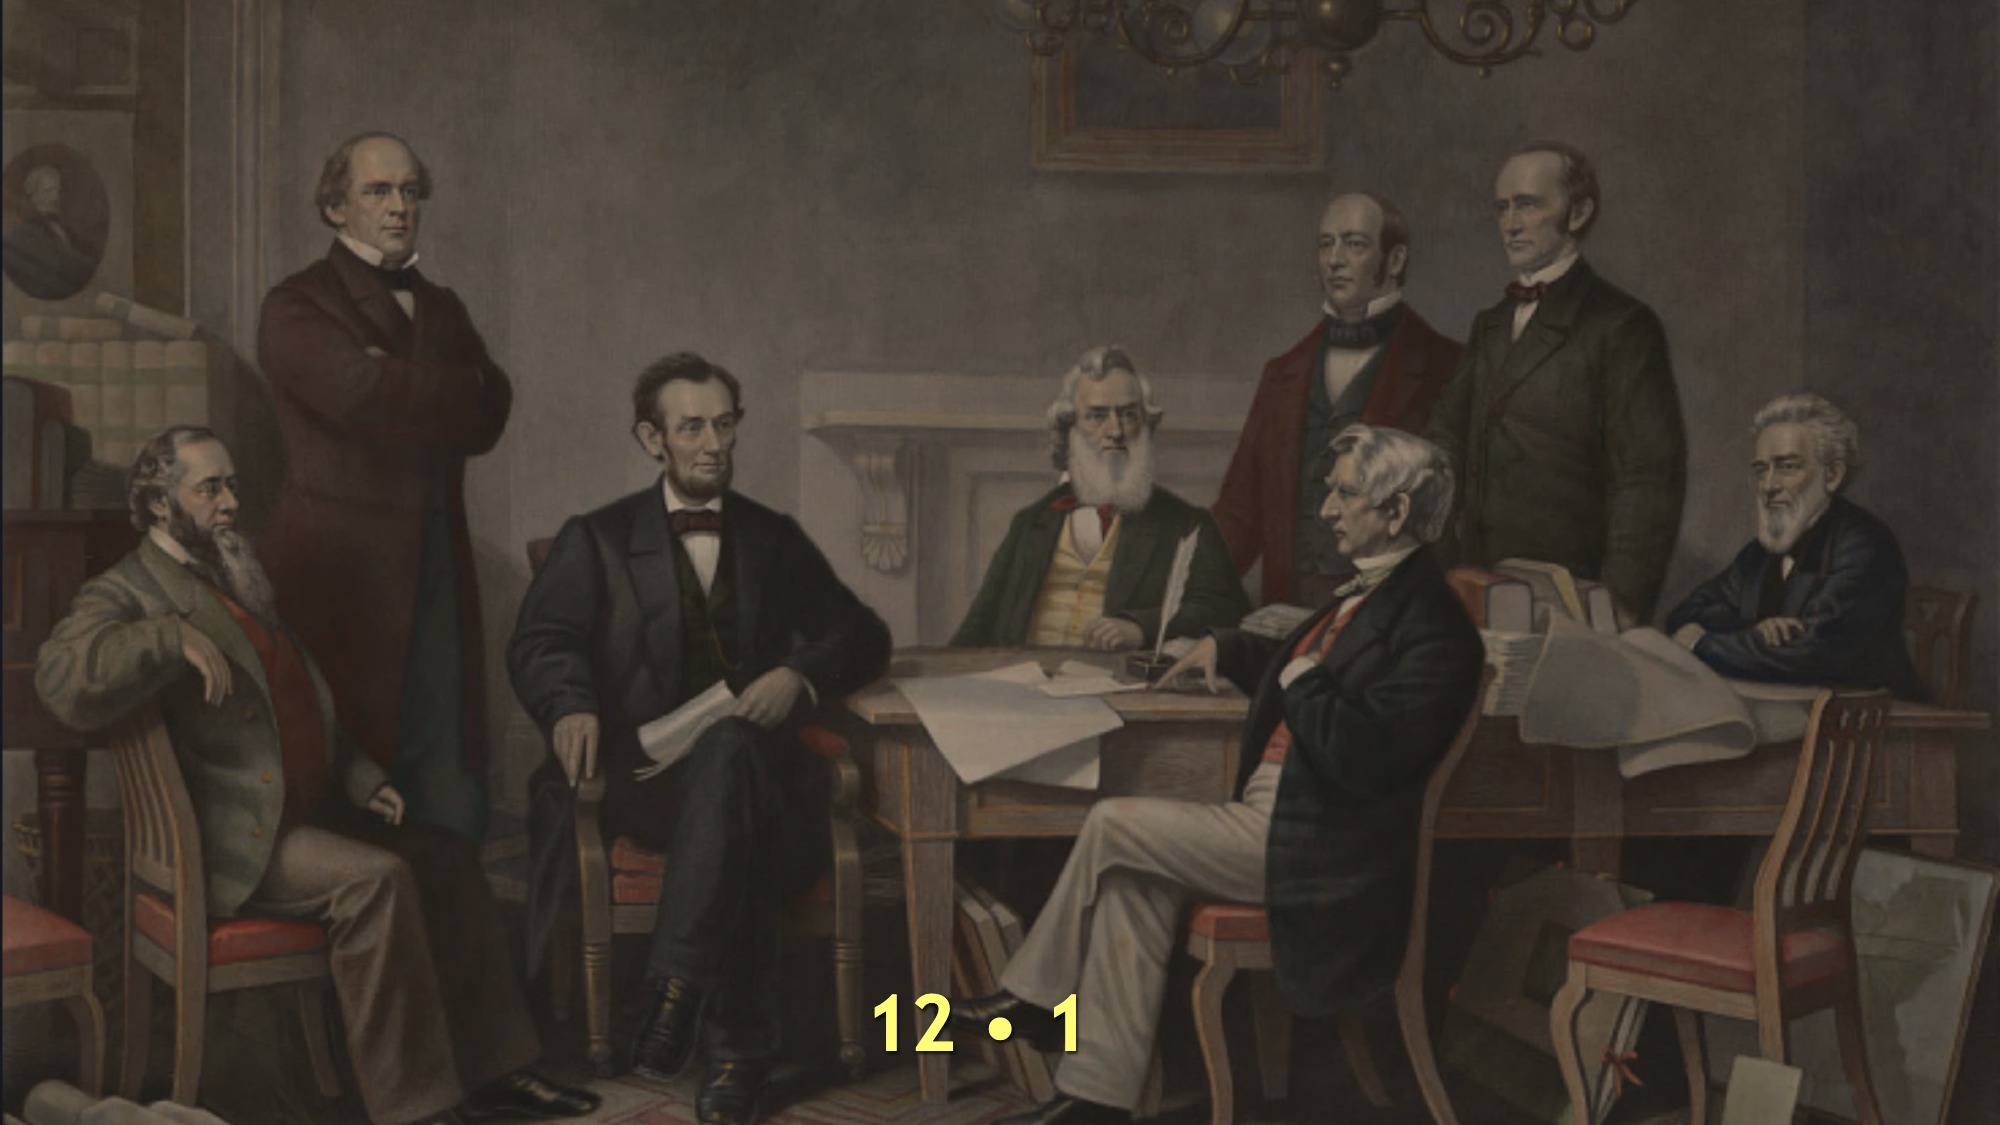
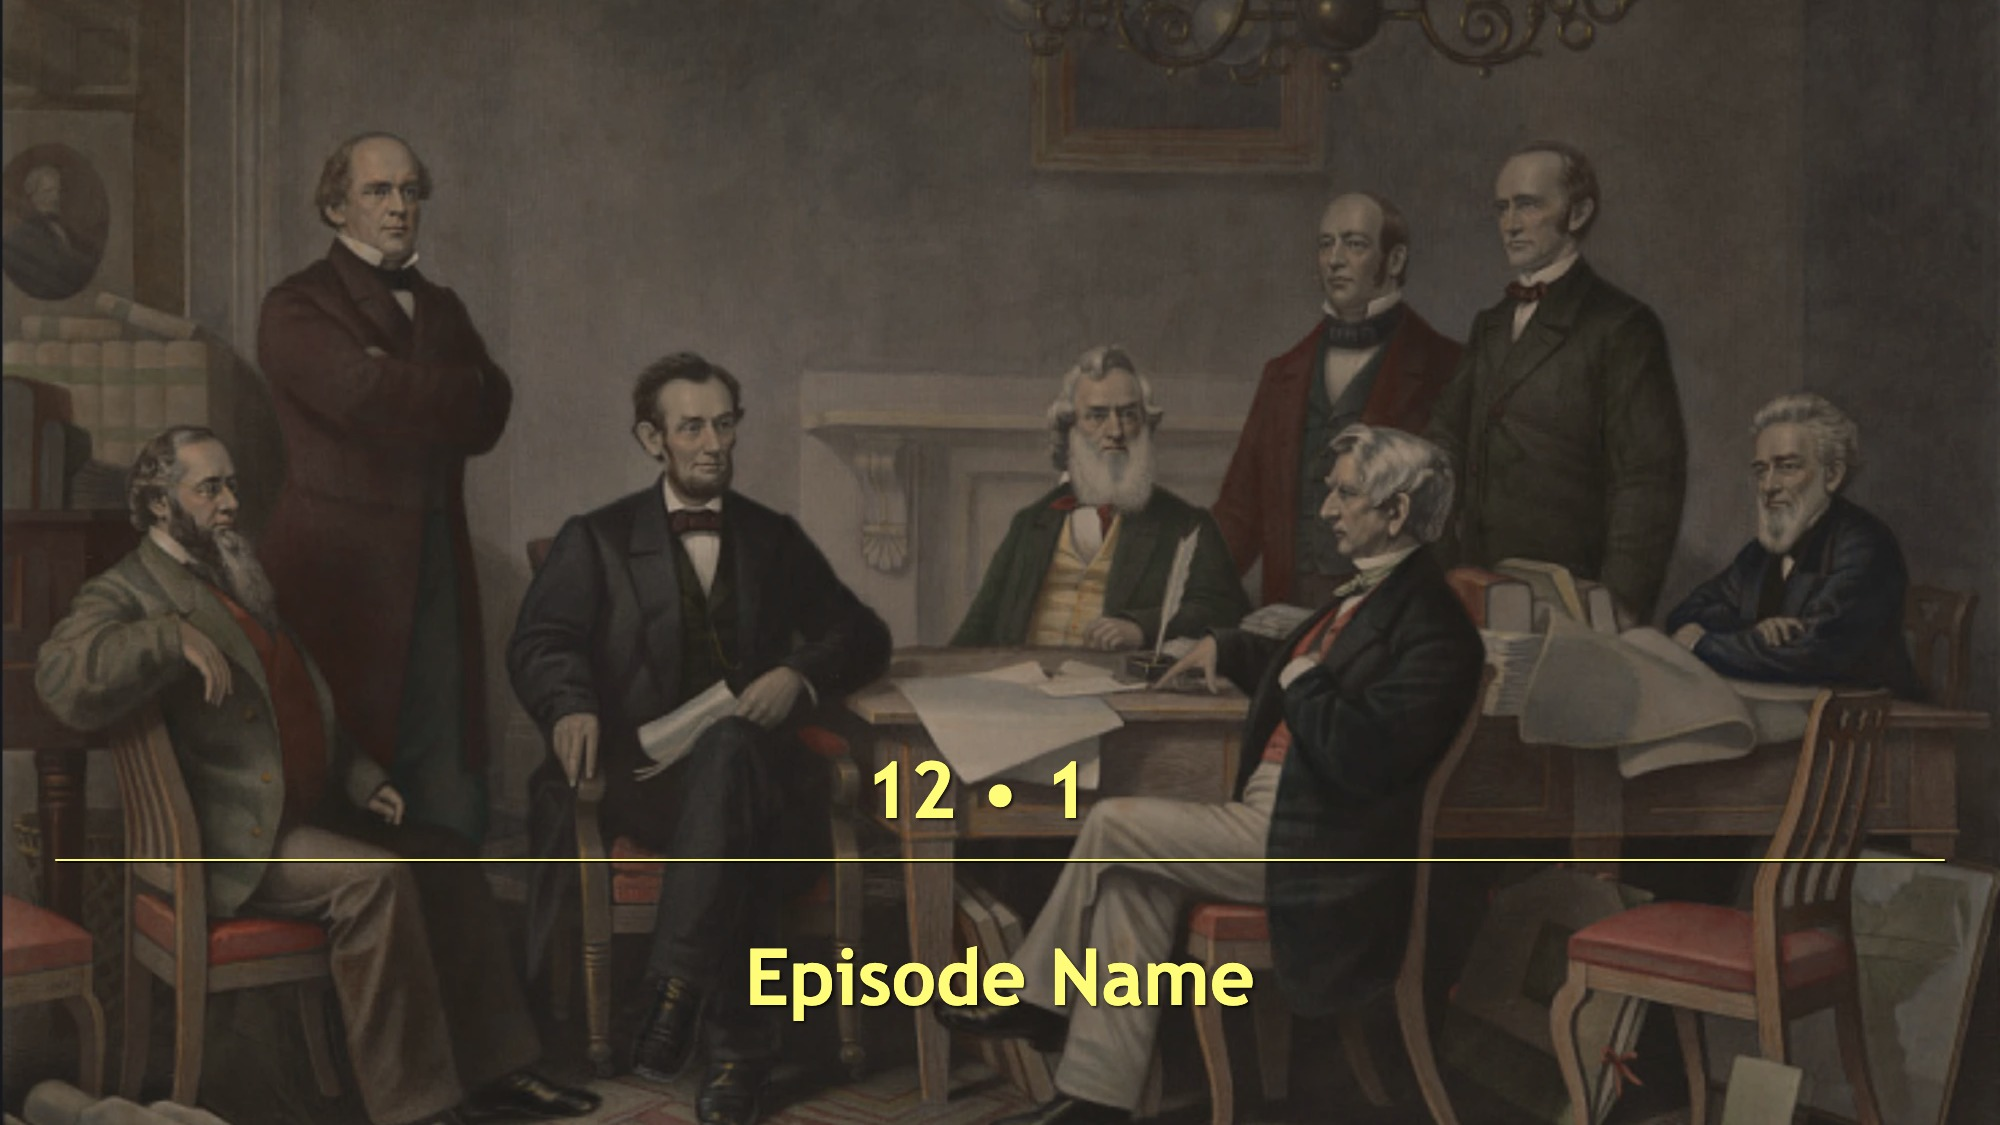
Let the Frame style choose which edge holds the title, and give the Simple design a title so a series is not left blank.

Changed region(s): [[0.031, 0.6533, 0.837, 0.7778], [0.372, 0.84, 0.651, 0.9333], [0.868, 0.7467, 0.961, 0.7778]]

diff --git a/Jellyfin.Plugin.EpisodePosterGenerator/Configuration/epg_posters.html b/Jellyfin.Plugin.EpisodePosterGenerator/Configuration/epg_posters.html
@@ -112,6 +112,18 @@
                                 <div id="posterStyleDescription" class="fieldDescription"></div>
                             </div>
 
+                            <div class="cutout-logo-group" id="frameOptions">
+                                <div class="inputContainer">
+                                    <label for="selectTitleEdge">Title Edge:</label>
+                                    <select is="emby-select" id="selectTitleEdge" data-setting="TitleEdge" data-default="Automatic">
+                                        <option value="Automatic">Automatic</option>
+                                        <option value="Top">Top</option>
+                                        <option value="Bottom">Bottom</option>
+                                    </select>
+                                    <div class="fieldDescription">Which edge of the border holds the title, the subtitle taking the other. Automatic keeps the title at the top while there is a subtitle to hold the bottom, and moves it down when there is none, such as on a series poster.</div>
+                                </div>
+                            </div>
+
                             <div class="cutout-logo-group" id="outlineOptions">
                                 <div class="checkboxContainer">
                                     <label class="emby-checkbox-label">

diff --git a/Jellyfin.Plugin.EpisodePosterGenerator/Services/Posters/Types/Frame.cs b/Jellyfin.Plugin.EpisodePosterGenerator/Services/Posters/Types/Frame.cs
@@ -18,9 +18,11 @@ namespace Jellyfin.Plugin.EpisodePosterGenerator.Services.Posters
         // A short, user facing description of this style shown in the configuration UI.
         public override string Description => "Image inside a decorative border. Polished gallery look.";
 
-        // The frame is drawn around the title, so the title is always there.
+        // The frame is drawn around the title, so the title is always there, and this style is the
+        // one that decides which edge holds it.
         public override IReadOnlyDictionary<string, PosterSettingState> SettingRules => PosterSettingRules.Build(
-            (PosterSettingRules.ShowTitle, PosterSettingState.Required));
+            (PosterSettingRules.ShowTitle, PosterSettingState.Required),
+            (PosterSettingRules.TitleEdge, PosterSettingState.Optional));
 
         // Border geometry at the 1080 pixel reference; scaled to the poster being drawn.
         private const float BorderStrokeReference = 4f;
@@ -40,9 +42,9 @@ namespace Jellyfin.Plugin.EpisodePosterGenerator.Services.Posters
         }
 
         // RenderTypography
-        // Renders the title and the label set into the frame's edges, and the border itself, which
-        // closes over any edge with no text in it. The bottom edge carries the label when there is
-        // one; a series has none, so its title sits there instead of leaving the bottom bare.
+        // Renders the title and the subtitle set into the frame's edges, and the border itself,
+        // which closes over any edge with no text in it. The title takes the edge the design asks
+        // for and the subtitle takes the other.
         protected override void RenderTypography(SKCanvas skCanvas, ArtworkSubject subject, PosterSettings settings, int width, int height)
         {
             ArgumentNullException.ThrowIfNull(subject);
@@ -53,30 +55,47 @@ namespace Jellyfin.Plugin.EpisodePosterGenerator.Services.Posters
             float spacing = GetElementSpacing(settings, unit);
 
             var showTitle = settings.ShowTitle && !string.IsNullOrEmpty(subject.Title);
-            var showLabel = settings.ShowEpisode && !string.IsNullOrEmpty(subject.Label);
+            var showSubtitle = settings.ShowEpisode && !string.IsNullOrEmpty(subject.Label);
 
-            TextInfo? titleInfo = null;
-            TextInfo? episodeInfo = null;
-
-            if (showLabel)
+            // Automatic keeps the title at the top while a subtitle holds the bottom, and moves it
+            // down when there is none, so a series does not leave the bottom edge bare.
+            var titleAtBottom = settings.TitleEdge switch
             {
-                episodeInfo = DrawEpisodeInfo(skCanvas, subject.Label, settings, unit, safeArea);
-            }
+                TitleEdge.Top => false,
+                TitleEdge.Bottom => true,
+                _ => !showSubtitle
+            };
+
+            TextInfo? topInfo = null;
+            TextInfo? bottomInfo = null;
 
             if (showTitle)
             {
-                var info = DrawEpisodeTitle(skCanvas, subject.Title!, settings, unit, safeArea, !showLabel);
-                if (showLabel)
+                var info = DrawEpisodeTitle(skCanvas, subject.Title!, settings, unit, safeArea, titleAtBottom);
+                if (titleAtBottom)
                 {
-                    titleInfo = info;
+                    bottomInfo = info;
                 }
                 else
                 {
-                    episodeInfo = info;
+                    topInfo = info;
                 }
             }
 
-            DrawFrameBorder(skCanvas, safeArea, titleInfo, episodeInfo, spacing, unit);
+            if (showSubtitle)
+            {
+                var info = DrawEpisodeInfo(skCanvas, subject.Label, settings, unit, safeArea, !titleAtBottom);
+                if (titleAtBottom)
+                {
+                    topInfo = info;
+                }
+                else
+                {
+                    bottomInfo = info;
+                }
+            }
+
+            DrawFrameBorder(skCanvas, safeArea, topInfo, bottomInfo, spacing, unit);
         }
 
         // LogError
@@ -118,12 +137,27 @@ namespace Jellyfin.Plugin.EpisodePosterGenerator.Services.Posters
         }
 
         // DrawEpisodeInfo
-        // Draws the label across the bottom of the safe area and returns its extent.
-        private static TextInfo DrawEpisodeInfo(SKCanvas canvas, string label, PosterSettings config, int unit, SKRect safeArea)
+        // Draws the subtitle into whichever edge the title did not take, and returns its extent.
+        private static TextInfo DrawEpisodeInfo(SKCanvas canvas, string label, PosterSettings config, int unit, SKRect safeArea, bool atBottom)
         {
             using var style = CreateEpisodeStyle(config, unit);
+            var padding = unit * TextPaddingRatio;
 
-            var bottom = safeArea.Bottom - (unit * TextPaddingRatio);
+            if (!atBottom)
+            {
+                var top = safeArea.Top + padding;
+                style.Draw(canvas, label, safeArea.MidX, top + style.Ascent);
+
+                return new TextInfo
+                {
+                    Height = style.LineBox,
+                    Width = style.MeasureWidth(label),
+                    CenterX = safeArea.MidX,
+                    Y = top
+                };
+            }
+
+            var bottom = safeArea.Bottom - padding;
             style.Draw(canvas, label, safeArea.MidX, bottom - style.Descent);
 
             return new TextInfo

diff --git a/Jellyfin.Plugin.EpisodePosterGenerator/Services/Posters/PosterSettingRules.cs b/Jellyfin.Plugin.EpisodePosterGenerator/Services/Posters/PosterSettingRules.cs
@@ -36,6 +36,9 @@ namespace Jellyfin.Plugin.EpisodePosterGenerator.Services.Posters
         /// <summary>The number and code colour.</summary>
         public const string EpisodeFontColor = "EpisodeFontColor";
 
+        /// <summary>Which edge of a framed poster the title sits in.</summary>
+        public const string TitleEdge = "TitleEdge";
+
         /// <summary>The cutout's text choice.</summary>
         public const string CutoutType = "CutoutType";
 
@@ -67,6 +70,7 @@ namespace Jellyfin.Plugin.EpisodePosterGenerator.Services.Posters
         {
             var rules = new Dictionary<string, PosterSettingState>(System.StringComparer.Ordinal)
             {
+                [TitleEdge] = PosterSettingState.Hidden,
                 [CutoutType] = PosterSettingState.Hidden,
                 [CutoutBorder] = PosterSettingState.Hidden,
                 [LogoPosition] = PosterSettingState.Hidden,

diff --git a/Jellyfin.Plugin.EpisodePosterGenerator.Tests/PosterSettingRulesTests.cs b/Jellyfin.Plugin.EpisodePosterGenerator.Tests/PosterSettingRulesTests.cs
@@ -78,4 +78,15 @@ public class PosterSettingRulesTests
         Assert.Equal(PosterSettingState.Hidden, rules[PosterSettingRules.EpisodeFontSize]);
         Assert.Equal(PosterSettingState.Hidden, rules[PosterSettingRules.EpisodeFontColor]);
     }
+
+    /// <summary>
+    /// Only the style that draws a border decides which edge holds the title.
+    /// </summary>
+    [Fact]
+    public void OnlyFrameOffersTheTitleEdge()
+    {
+        Assert.Equal(PosterSettingState.Optional, Generator(PosterStyle.Frame).SettingRules[PosterSettingRules.TitleEdge]);
+        Assert.Equal(PosterSettingState.Hidden, Generator(PosterStyle.Standard).SettingRules[PosterSettingRules.TitleEdge]);
+        Assert.Equal(PosterSettingState.Hidden, Generator(PosterStyle.Cutout).SettingRules[PosterSettingRules.TitleEdge]);
+    }
 }

diff --git a/Jellyfin.Plugin.EpisodePosterGenerator/Models/Poster/PosterSettings.cs b/Jellyfin.Plugin.EpisodePosterGenerator/Models/Poster/PosterSettings.cs
@@ -53,6 +53,12 @@ namespace Jellyfin.Plugin.EpisodePosterGenerator.Models
 
         public CutoutType CutoutType { get; set; } = CutoutType.Code;
 
+        /// <summary>
+        /// Gets or sets which edge of a framed poster the title sits in, the subtitle taking the
+        /// other. Automatic keeps the title at the top while there is a subtitle to hold the bottom.
+        /// </summary>
+        public TitleEdge TitleEdge { get; set; } = TitleEdge.Automatic;
+
         public bool CutoutBorder { get; set; } = true;
 
         public Position LogoPosition { get; set; } = Position.Center;

diff --git a/Jellyfin.Plugin.EpisodePosterGenerator/Models/Poster/TitleEdge.cs b/Jellyfin.Plugin.EpisodePosterGenerator/Models/Poster/TitleEdge.cs
@@ -1,0 +1,17 @@
+namespace Jellyfin.Plugin.EpisodePosterGenerator.Models
+{
+    /// <summary>
+    /// Which edge of a framed poster the title sits in. The subtitle takes the other one.
+    /// </summary>
+    public enum TitleEdge
+    {
+        /// <summary>The title stays at the top while a subtitle holds the bottom, and moves down when there is none.</summary>
+        Automatic,
+
+        /// <summary>The title always sits in the top edge.</summary>
+        Top,
+
+        /// <summary>The title always sits in the bottom edge.</summary>
+        Bottom
+    }
+}

diff --git a/docs/SETTINGS.md b/docs/SETTINGS.md
@@ -66,6 +66,10 @@ Split lays out landscape only, so its portrait images are drawn with Standard in
 
 * **Type**: what the cutout shows. Code such as S01E05, or Text spelled out. Default Code.
 
+## Frame (Style is Frame)
+
+* **Title Edge**: which edge of the border holds the title, the subtitle taking the other. Automatic keeps the title at the top while there is a subtitle to hold the bottom, and moves it down when there is none, such as on a series poster. Default Automatic.
+
 ## Logo (Style is Logo)
 
 * **Logo Position**: vertical placement. Top, Center, or Bottom. Default Center.
